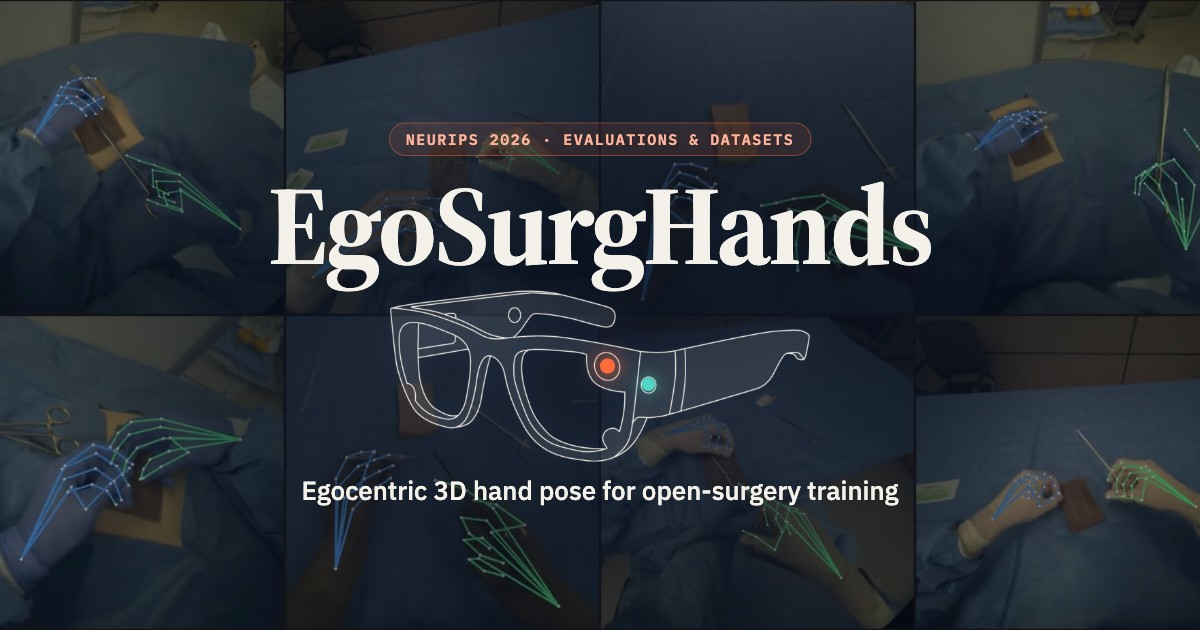
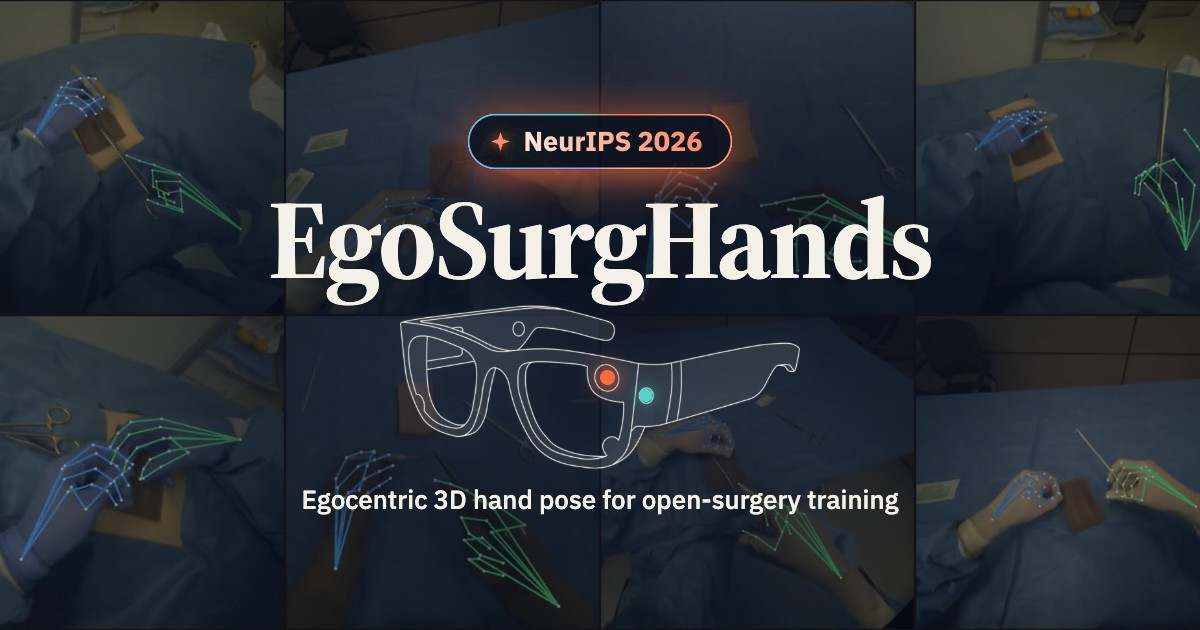
Hero badge: just NeurIPS 2026, highlighted with a glowing gradient ring; matching social image

Changed region(s): [[0.2158, 0.1206, 0.8017, 0.8143], [0.6167, 0.6032, 0.6475, 0.6333]]

diff --git a/style.css b/style.css
@@ -103,6 +103,14 @@ a:hover { text-decoration: underline; text-underline-offset: 3px; }
   radial-gradient(ellipse 50% 60% at 50% 50%, rgba(10,18,34,.9), rgba(10,18,34,.7) 58%, rgba(10,18,34,.44) 100%),
   linear-gradient(180deg, rgba(12,17,28,.55), rgba(12,17,28,0) 16%, rgba(12,17,28,0) 74%, #0C111C 100%); }
 .hero-inner { display: grid; justify-items: center; text-align: center; gap: 14px; }
+/* venue badge: gradient text, glow, and a slowly turning gradient ring */
+@property --ang { syntax: "<angle>"; inherits: false; initial-value: 0deg; }
+.venue { position: relative; isolation: isolate; display: inline-flex; align-items: center; gap: 11px; padding: 13px 28px 13px 21px; border-radius: 999px; background: rgba(12,17,28,.74); -webkit-backdrop-filter: blur(6px); backdrop-filter: blur(6px); box-shadow: 0 0 48px rgba(255,107,61,.5), 0 12px 34px -12px rgba(255,107,61,.7); }
+.venue::before { content: ""; position: absolute; inset: 0; z-index: -1; border-radius: inherit; padding: 2px; background: conic-gradient(from var(--ang), #FF6B3D, #FFB39B, #B88CF5, #4FD6C6, #FF6B3D); -webkit-mask: linear-gradient(#000 0 0) content-box, linear-gradient(#000 0 0); -webkit-mask-composite: xor; mask-composite: exclude; animation: venue-spin 6s linear infinite; }
+@keyframes venue-spin { to { --ang: 360deg; } }
+.venue .spark { width: 20px; height: 20px; fill: #FF8A65; filter: drop-shadow(0 0 6px rgba(255,107,61,.85)); animation: twinkle 2.6s ease-in-out infinite; flex: none; }
+@keyframes twinkle { 0%, 100% { transform: scale(1) rotate(0deg); } 50% { transform: scale(.72) rotate(45deg); } }
+.venue-text { font: 700 clamp(18px, 2.3vw, 25px)/1.1 var(--sans); letter-spacing: .01em; background: linear-gradient(90deg, #FFE6DB, #FFB39B 45%, #FF8A65); -webkit-background-clip: text; background-clip: text; color: transparent; }
 .title { font: 700 clamp(3.1rem, 10.5vw, 7.4rem)/.94 var(--display); letter-spacing: -.02em; color: var(--ink); margin: 8px 0 0; text-shadow: 0 8px 50px rgba(0,0,0,.5); }
 .glasses { position: relative; width: min(500px, 82vw); margin: 0 auto 2px; }
 .glasses img { width: 100%; height: auto; filter: drop-shadow(0 0 16px rgba(127,166,232,.28)); }
@@ -374,5 +382,5 @@ footer p { margin: 0 0 8px; max-width: 900px; }
 @media (prefers-reduced-motion: reduce) {
   html { scroll-behavior: auto; }
   .js .reveal { opacity: 1; transform: none; transition: none; }
-  .pulse, .cam::after, .hot::after { animation: none; }
+  .pulse, .cam::after, .hot::after, .venue::before, .venue .spark { animation: none; }
 }

diff --git a/index.html b/index.html
@@ -16,7 +16,7 @@
   <link rel="preconnect" href="https://fonts.googleapis.com">
   <link rel="preconnect" href="https://fonts.gstatic.com" crossorigin>
   <link rel="stylesheet" href="https://fonts.googleapis.com/css2?family=IBM+Plex+Mono:wght@400;500;600&family=IBM+Plex+Sans:wght@400;500;600;700&family=Source+Serif+4:opsz,wght@8..60,600;8..60,700&display=swap">
-  <link rel="stylesheet" href="style.css?v=20261106c">
+  <link rel="stylesheet" href="style.css?v=20261106d">
   <script>
     document.documentElement.classList.add("js");
     try { var t = localStorage.getItem("esh-theme"); if (t === "dark" || t === "light") document.documentElement.dataset.theme = t; } catch (e) {}
@@ -50,7 +50,7 @@
     <div class="wall" aria-hidden="true"><video id="wall" muted loop playsinline preload="auto"></video></div>
     <div class="shade" aria-hidden="true"></div>
     <div class="wrap hero-inner">
-      <span class="pill"><i class="pulse"></i>NeurIPS 2026 · Evaluations &amp; Datasets Track</span>
+      <span class="venue"><svg class="spark" viewBox="0 0 24 24" aria-hidden="true"><path d="M12 1.5l2.5 8 8 2.5-8 2.5-2.5 8-2.5-8-8-2.5 8-2.5z"/></svg><span class="venue-text">NeurIPS 2026</span></span>
       <h1 class="title">EgoSurgHands</h1>
       <div class="glasses">
         <img src="media/aria_glasses.webp" width="1235" height="503" alt="Line drawing of the Project Aria (Gen 1) glasses used for every recording">
@@ -640,6 +640,6 @@ ds = load_dataset(<span class="s">"aaditya/EgoSurgHands"</span>)   <span class="
 <div class="tooltip" id="tooltip" role="status" aria-live="polite"></div>
 <div class="lightbox" id="lightbox" aria-hidden="true"><img alt=""></div>
 
-<script src="main.js?v=20261106c" defer></script>
+<script src="main.js?v=20261106d" defer></script>
 </body>
 </html>
